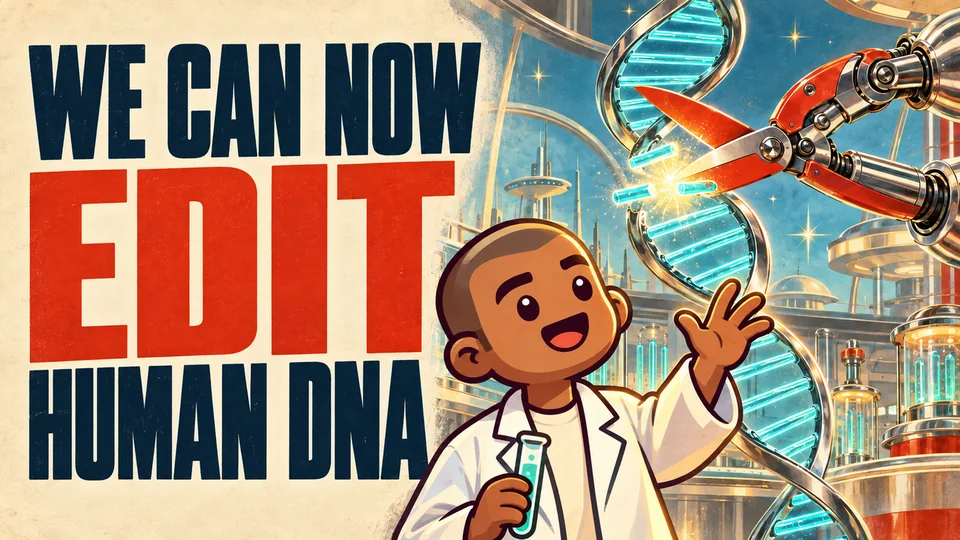
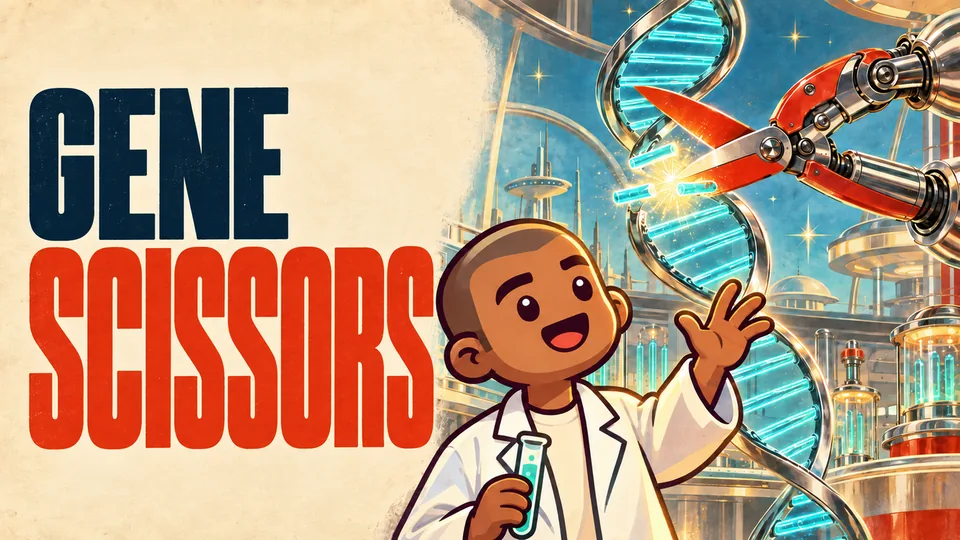
EP1 English thumbnail: GENE SCISSORS headline (Mo 10-21-2026)

diff --git a/index.html b/index.html
@@ -499,7 +499,7 @@ html[lang="ar"] .ep-strip .ep-name{font-size:1.02rem}
         </li>
         <li class="ep-row">
           <span class="row-pic ep-pic">
-              <img class="pic-en" src="episodes/assets/ep01/thumb-en-960.webp" srcset="episodes/assets/ep01/thumb-en-960.webp 960w, episodes/assets/ep01/thumb-en.webp 1280w" sizes="160px" width="1280" height="720" alt="We can now edit human DNA">
+              <img class="pic-en" src="episodes/assets/ep01/thumb-en-960.webp?v=1021" srcset="episodes/assets/ep01/thumb-en-960.webp?v=1021 960w, episodes/assets/ep01/thumb-en.webp?v=1021 1280w" sizes="160px" width="1280" height="720" alt="Gene Scissors">
               <img class="pic-ar" src="episodes/assets/ep01/thumb-ar-960.webp" srcset="episodes/assets/ep01/thumb-ar-960.webp 960w, episodes/assets/ep01/thumb-ar.webp 1280w" sizes="160px" width="1280" height="720" alt="مقصّ الجينات" loading="lazy">
           </span>
           <span class="row-txt"><span class="ep-no" data-i18n="ep1.no">Episode 1</span><span class="ep-name" data-i18n="ep1.name">CRISPR</span></span>
